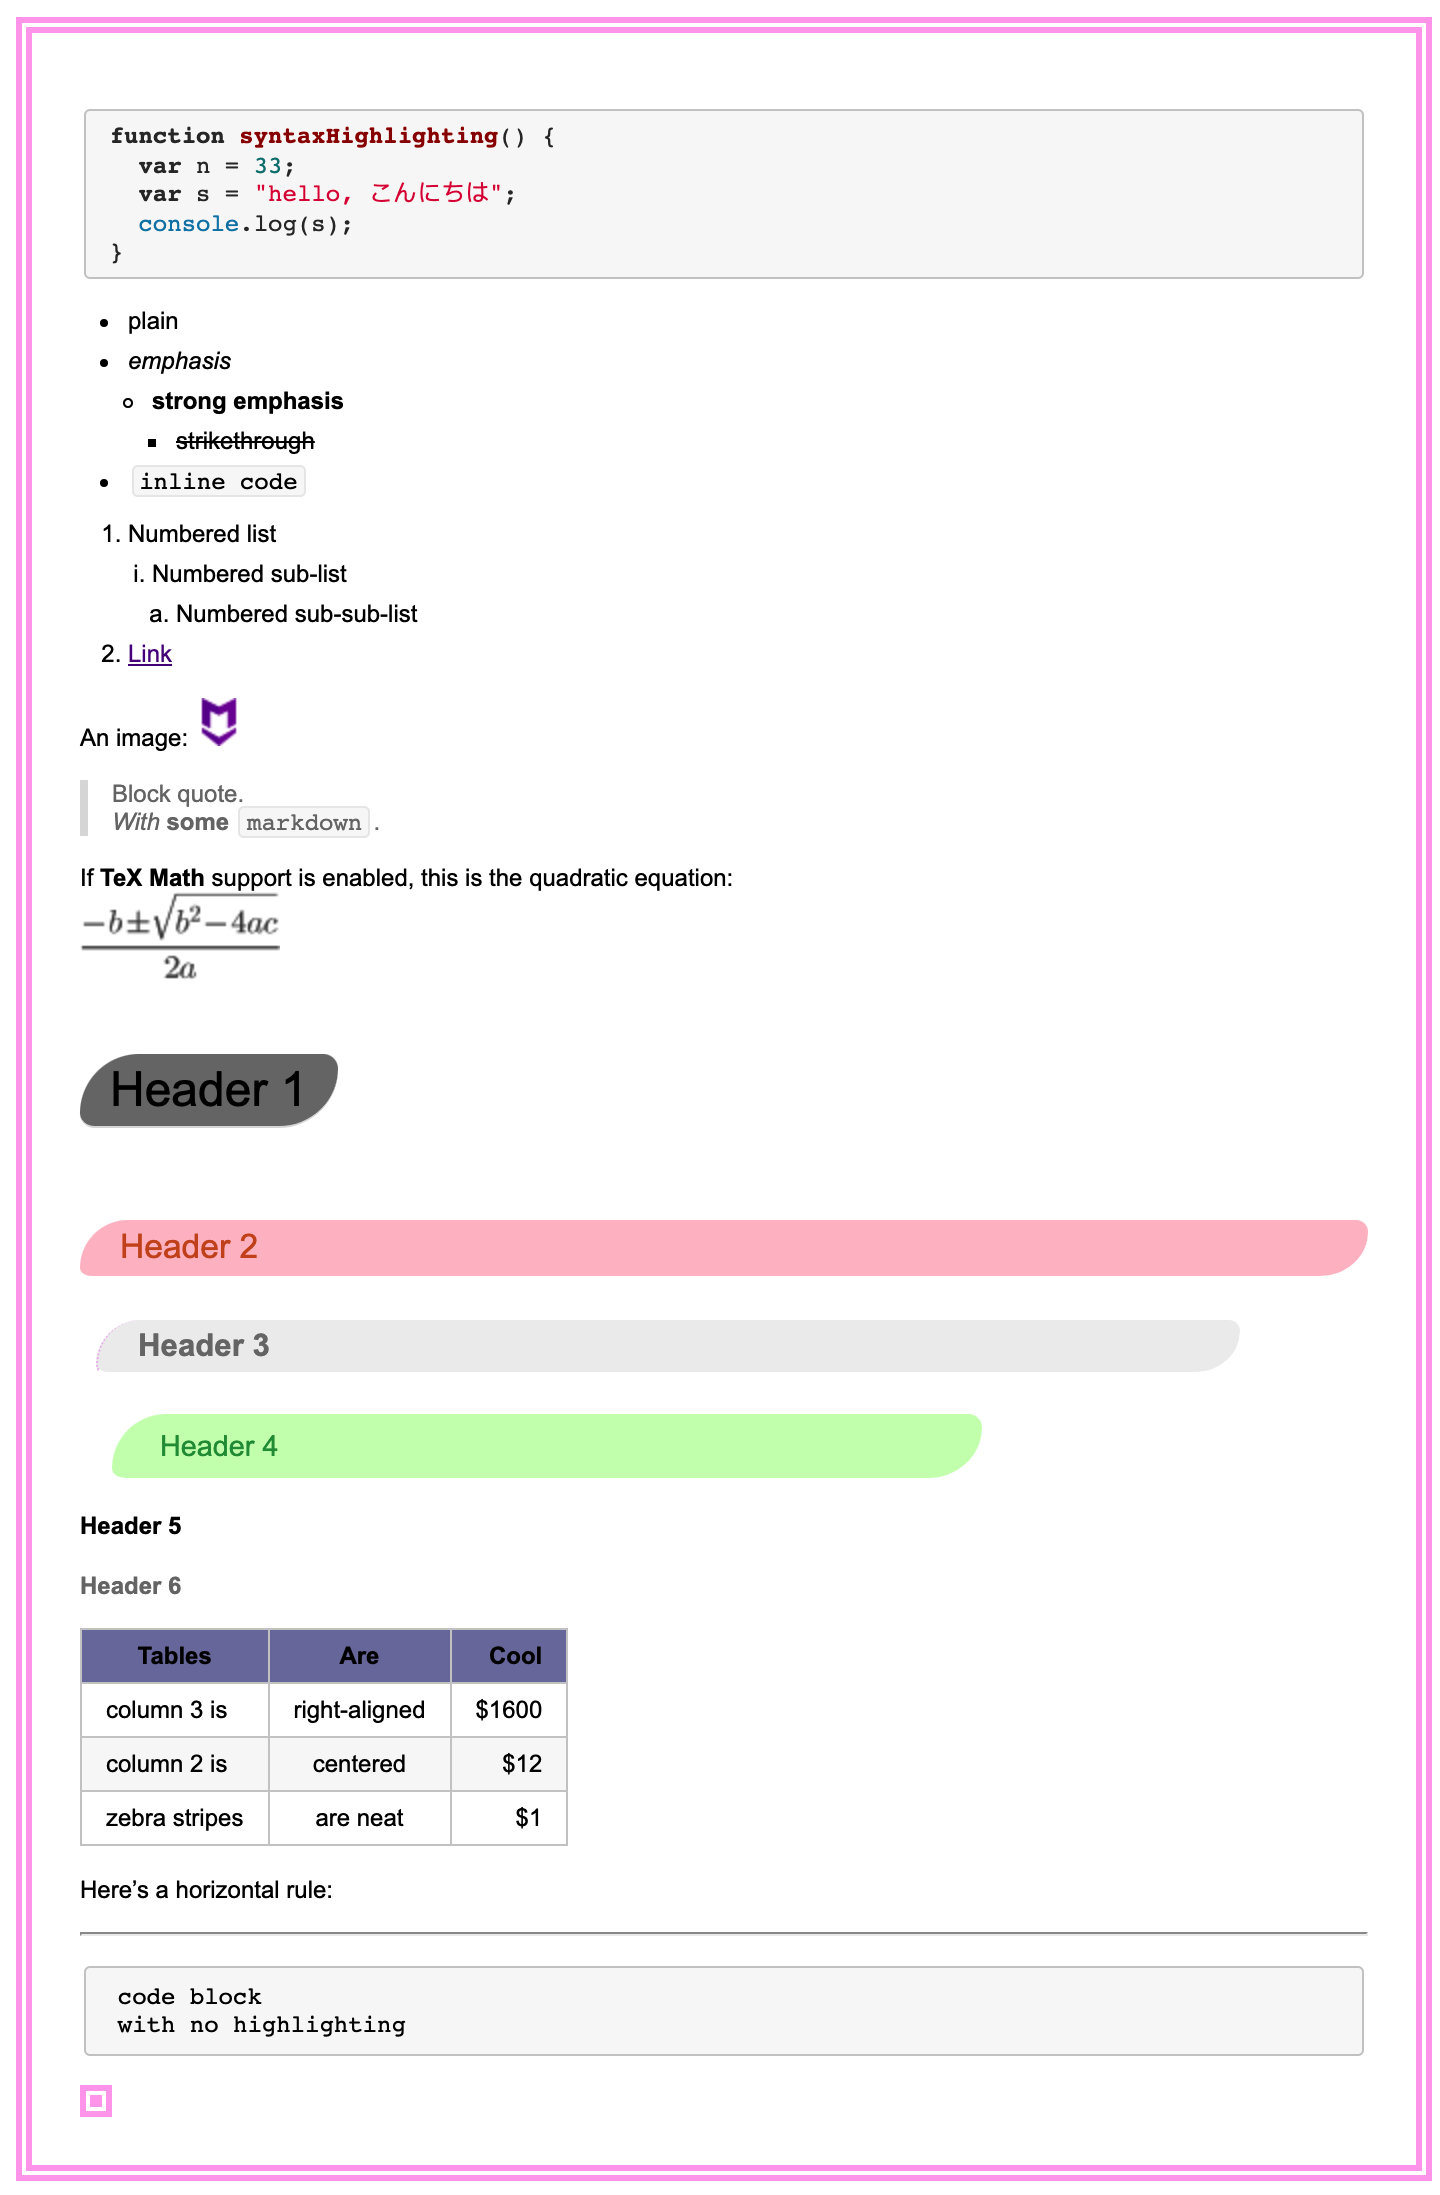
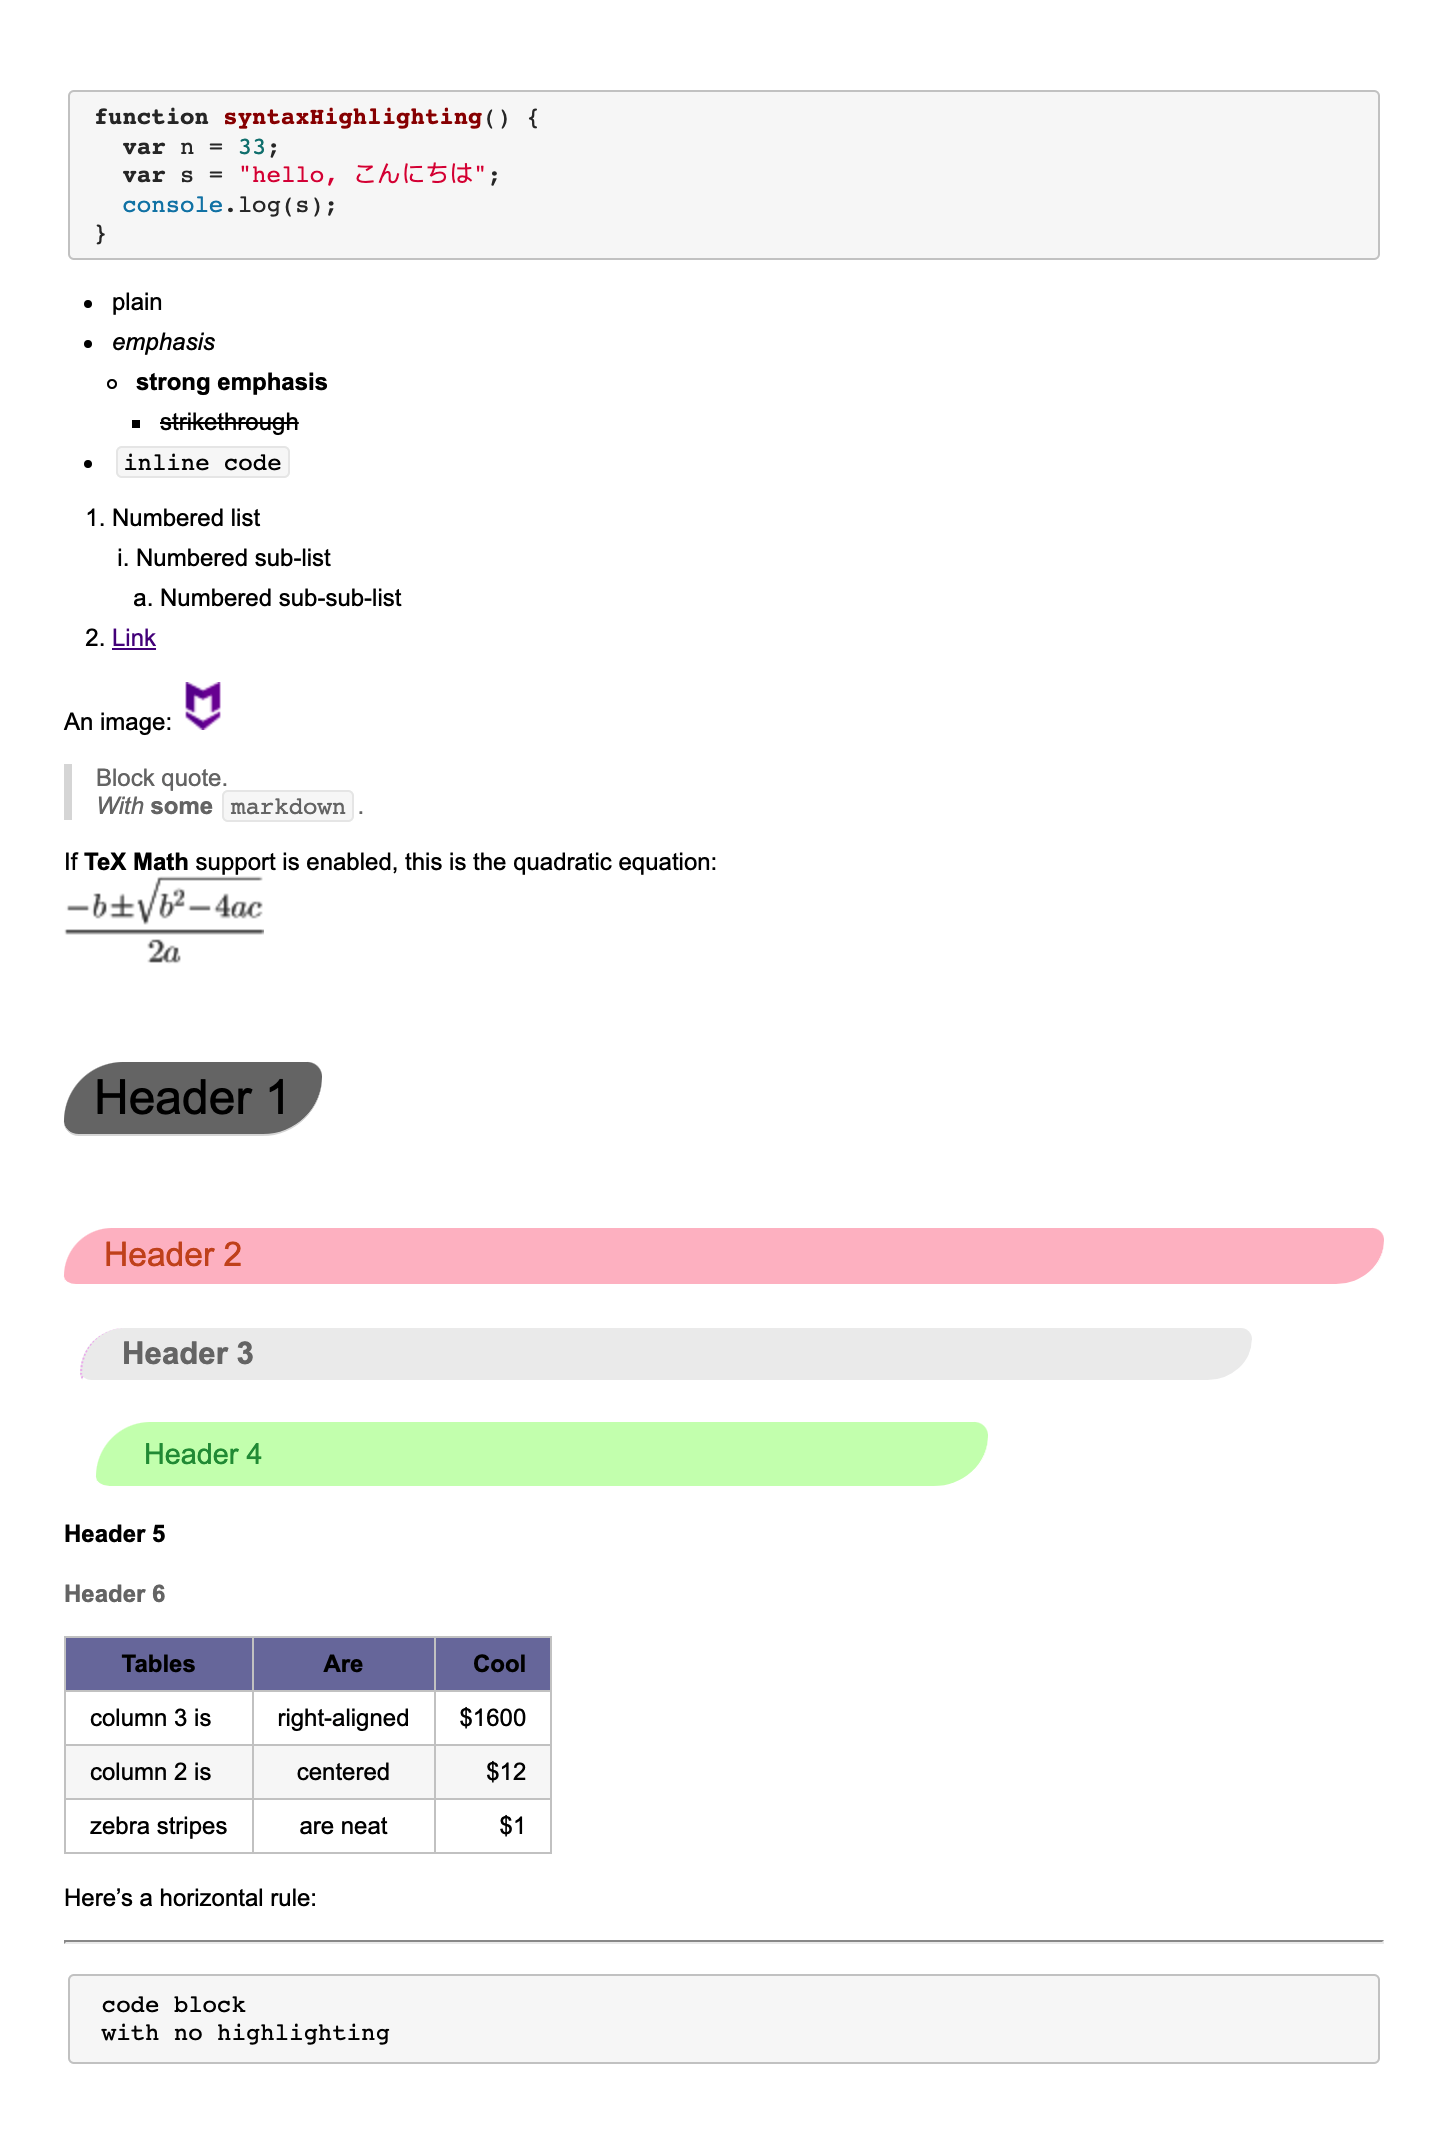
update

Changed region(s): [[0.0, 0.0, 1.0, 0.9972]]

diff --git a/myself/myself.css b/myself/myself.css
@@ -20,7 +20,7 @@
 
 html {
   background-color: #ffffff;
-  border: 8px double #FAE;
+  border: 8px #FAE;
 }
 
 body {
@@ -28,7 +28,7 @@ body {
 }
 
 div {
-  border: 8px double #FAE; 
+  border: 8px #FAE; 
   padding: 2em;
 }
 
